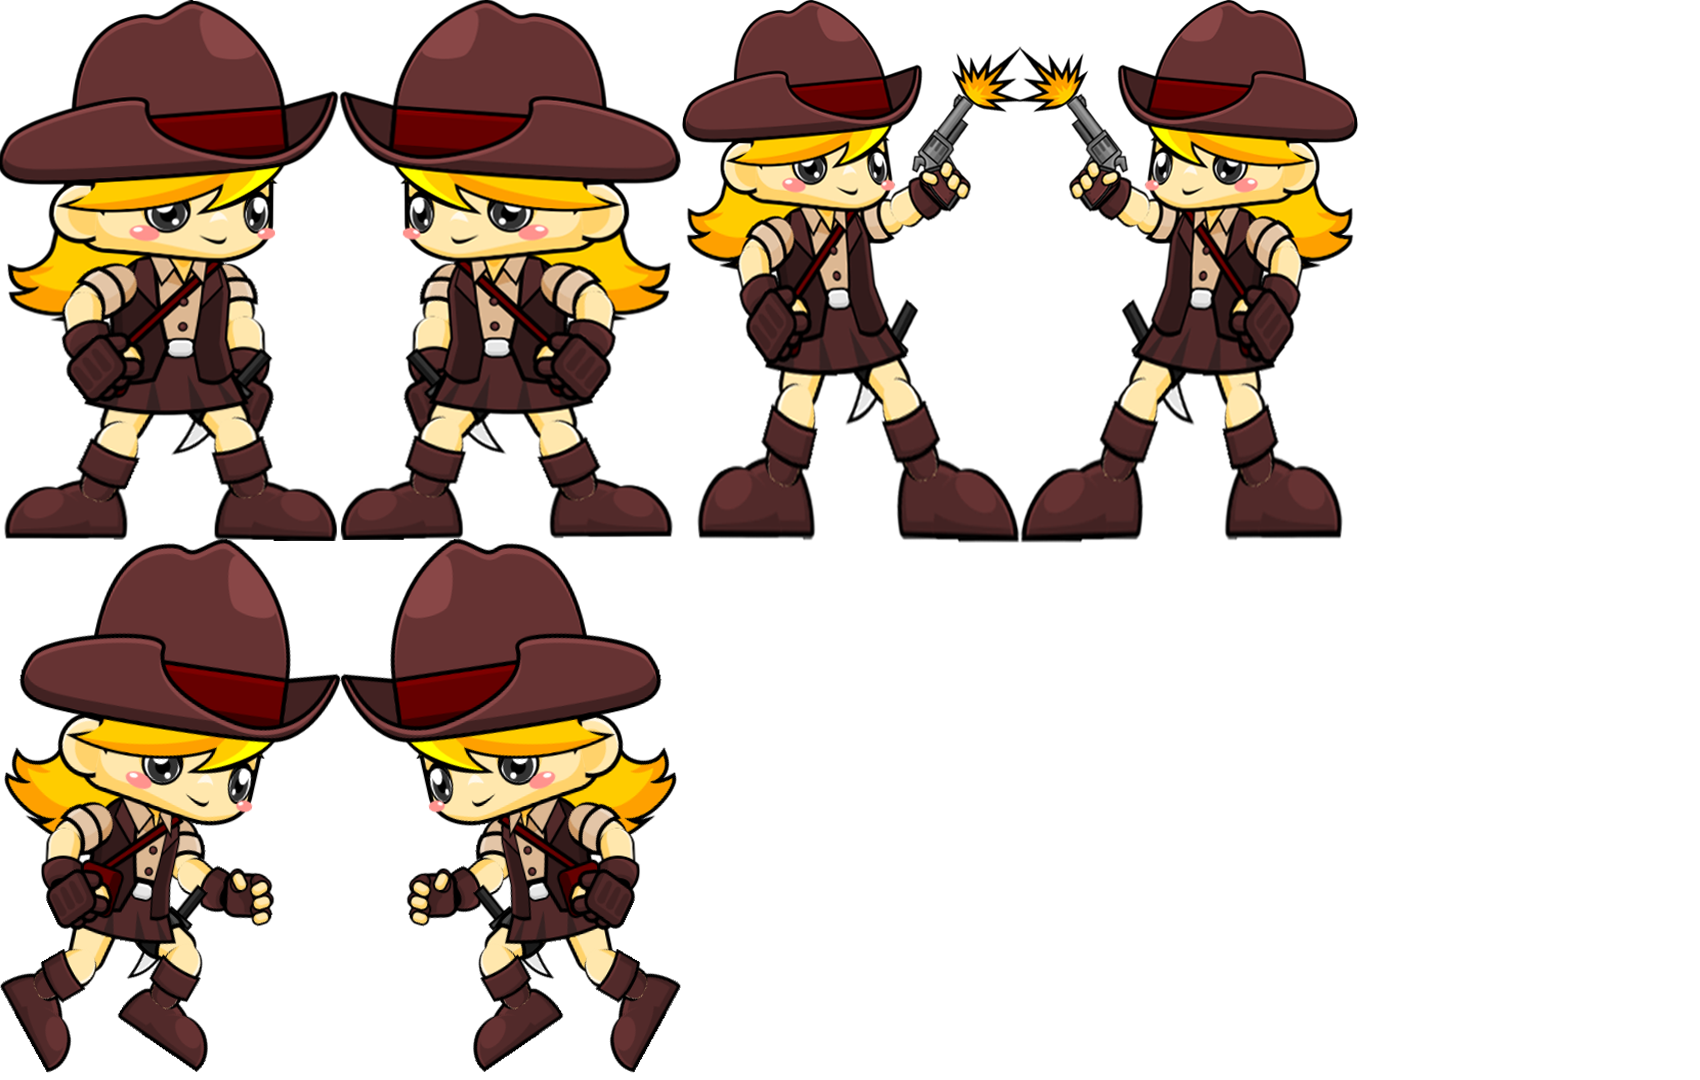
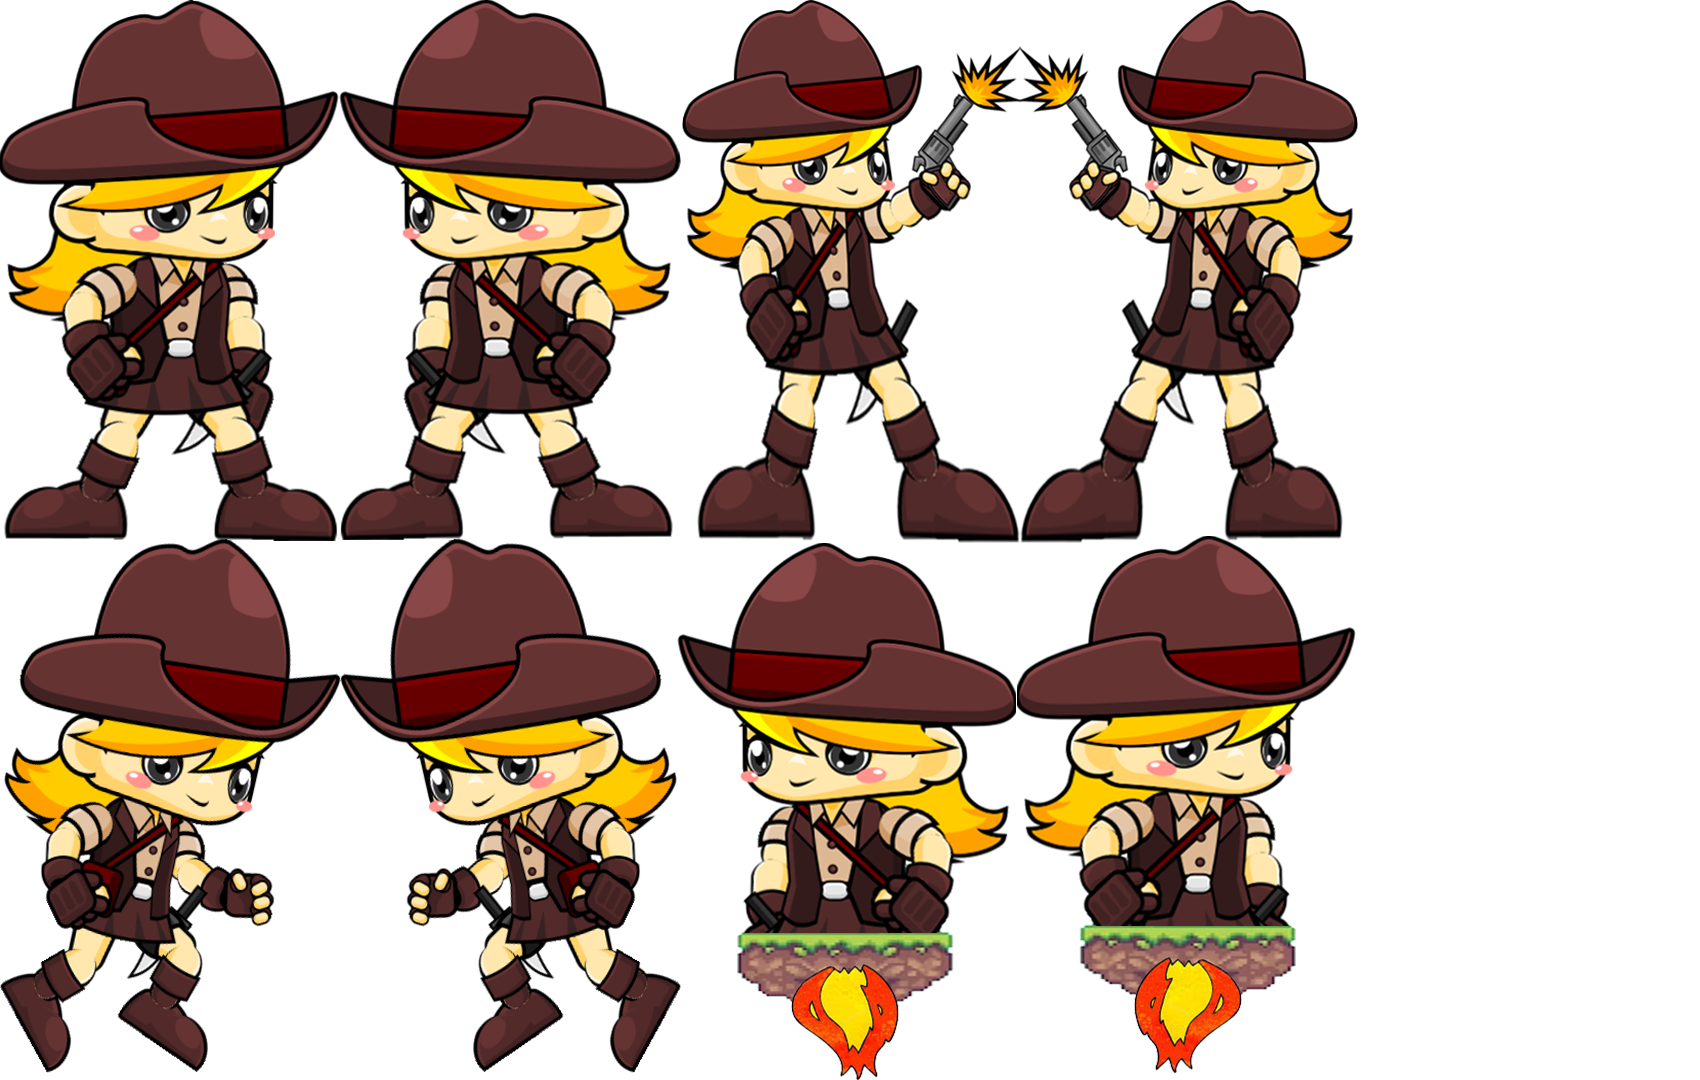
split up game and manu in  classes

Changed region(s): [[0.3741, 0.4889, 0.8106, 1.0]]

diff --git a/src/be/uantwerpen/fti/ei/Platformer/GameMode1.java b/src/be/uantwerpen/fti/ei/Platformer/GameMode1.java
@@ -10,6 +10,7 @@ import be.uantwerpen.fti.ei.Platformer.Platforms.CrackingPlatform;
 import be.uantwerpen.fti.ei.Platformer.Platforms.MovingPlatform;
 import be.uantwerpen.fti.ei.Platformer.Platforms.PlatformEntity;
 import be.uantwerpen.fti.ei.Platformer.Platforms.StaticPlatform;
+import be.uantwerpen.fti.ei.Platformer.Props.Jetter;
 import be.uantwerpen.fti.ei.Platformer.Props.Props;
 import be.uantwerpen.fti.ei.Platformer.Props.Trampoline;
 
@@ -36,8 +37,10 @@ public class GameMode1 {
 
 
 
-    private boolean jump ; //to check if jum is nessessary
+    private boolean jump ; //to check if jump is nessessary
     private int jumped = 0 ; //for jumping animation
+
+    private boolean jetteranimation = false ;
 
     private boolean propHit;    //for higher jump
 
@@ -121,7 +124,7 @@ public class GameMode1 {
         //draws platform in first frame
         DrawPlatforms();
         //draw player
-        player.Draw(false);
+        player.Draw(0);
 
         //draw string for info
         grCtx.getG2d().drawString("Press escape to start", grCtx.getScreenWidth() / 2 - 100, 100);
@@ -204,14 +207,24 @@ public class GameMode1 {
                     DrawBullets();
 
 
-                    //for the jumping animation of the player
-                    if (jumped > 0 ){
-                        player.Draw(true);
-                        jumped -- ;
+                    //for animations
+
+                    if (jetteranimation) {
+                        player.Draw(5);
+                        if (player.getMovementComp().getJumpCounter() < 5) {
+                            jetteranimation = false;
+                            jumped = 0;
+                        }
+                    }
+                    else if (jumped > 0) {
+                        player.Draw(1);
+                        jumped--;
+
                     }
                     else {
-                        player.Draw(false  );
+                        player.Draw(0);
                     }
+
 
                     //draws score
                     grCtx.getG2d().drawString(String.valueOf(player.getScore()), grCtx.getScreenWidth() / 2 - 10, 100);
@@ -400,6 +413,7 @@ public class GameMode1 {
 
             }
         }
+
         //horizontal moving
         else if (color <= 90) {
             platforms.add(new MovingPlatform(xp, yp, grCtx.getPlatformHeight(), grCtx.getPlatformWidth(), grCtx));
@@ -429,10 +443,12 @@ public class GameMode1 {
 
 
         }
-        //rocket or something more rare -> improvement
-        else if (color <= 108 && level > 3) {
 
 
+        //jetter (rocket)
+        else if (color <= 108 && level >3 ) {
+            platforms.add(new StaticPlatform(xp , yp , grCtx.getPlatformHeight() , grCtx.getPlatformWidth() , grCtx));
+            props.add(new Jetter(platforms.getLast().getMovementComp() , grCtx)) ;
             //safe
         } else
             platforms.add(new StaticPlatform(xp, yp, grCtx.getPlatformHeight(), grCtx.getPlatformWidth(), grCtx));
@@ -478,6 +494,13 @@ public class GameMode1 {
             if (prop.CollisionPropPlayer(player) && player.movementComp.getJumpCounter() < 0) {  ///falling onto prop
                 player.movementComp.setJumpCounter(prop.getPower());
                 propHit = true;
+                //if prop is getter -> animation
+                if (prop.getId() == 21){
+                    jetteranimation = true ;
+                }
+
+
+
                 return true;
 
             }

diff --git a/src/Dependencies/GraphicsContext.java b/src/Dependencies/GraphicsContext.java
@@ -18,6 +18,7 @@ public class GraphicsContext {
     private int playerWidth ;
     private int bulletsize ; //keep it rectangular
     private int trampolinesize ; //also rectangle
+    private int jetterSize;         //rect
     private int monster1Height;
     private int monster1Width;
 
@@ -56,6 +57,7 @@ public class GraphicsContext {
     public BufferedImage crackingPlatformSprite;
     public BufferedImage movingPlatformSprite;
     public BufferedImage trampolineSprite;
+    public BufferedImage jetterSprite ;
 
     public BufferedImage monster1Sprite;
 
@@ -176,6 +178,8 @@ public class GraphicsContext {
                 movingPlatformSprite = ImageIO.read(new File("Sources/Theme1/Platforms/MovingPlatform.png"));
 
                 trampolineSprite = ImageIO.read(new File("Sources/Theme1/Props/Trampline.png"));
+                jetterSprite = ImageIO.read(new File("Sources/Theme1/Props/BoostPlat.png"));
+
 
                 monster1Sprite = ImageIO.read(new File("Sources/Theme1/Enemies/Monster1.png"));
 
@@ -235,6 +239,9 @@ public class GraphicsContext {
             playerSprite = resizeImage(playerSprite, playerWidth*5, playerHeight*2);         //rezise the player sprite
             playerJumping = resizeImage(playerJumping, size*20, size*20);         //rezise the player sprite
 
+
+
+
             monster1Sprite = resizeImage(monster1Sprite , monster1Width , monster1Height);
 
             ground = resizeImage(staticPlatformSprite , screenWidth , playerHeight) ;
@@ -243,6 +250,7 @@ public class GraphicsContext {
             crackingPlatformSprite = resizeImage(crackingPlatformSprite , platformWidth , platformHeight);
             movingPlatformSprite = resizeImage(movingPlatformSprite , platformWidth , platformHeight);
 
+            jetterSprite = resizeImage(jetterSprite , jetterSize ,jetterSize) ;
             trampolineSprite = resizeImage(trampolineSprite , trampolinesize, trampolinesize);
             bulletSprite = resizeImage(bulletSprite , bulletsize , bulletsize);
 
@@ -267,6 +275,7 @@ public class GraphicsContext {
         platformHeight = size*10 ;
         platformWidth = size*21 ;
         trampolinesize = size *10 ;
+        jetterSize = size * 10 ;
         bulletsize= size *6 ;
         monster1Height = size*30 ;
         monster1Width = size*20 ;
@@ -340,6 +349,13 @@ public class GraphicsContext {
         this.trampolinesize = trampolinesize;
     }
 
+    public int getJetterSize() {
+        return jetterSize;
+    }
+
+    public void setJetterSize(int jetterSize) {
+        this.jetterSize = jetterSize;
+    }
 
     public int getMonster1Height() {
         return monster1Height;

diff --git a/src/be/uantwerpen/fti/ei/Platformer/Player.java b/src/be/uantwerpen/fti/ei/Platformer/Player.java
@@ -45,7 +45,7 @@ public class Player extends  Entity{
      * @param jumping : True if the player is jumping, for animation puposes
      * //could make the juming an int that decreases like in the Game for further, more advanced animations -> improvement.
      */
-    public  void Draw(boolean jumping){
+    public  void Draw(int animation ){
 
         Graphics2D g2d = gr.getG2d();
         int size = gr.getSize();
@@ -57,17 +57,36 @@ public class Player extends  Entity{
         }
         else {
 
-            if (!jumping) {
+
+            //regular  (left-right)
+             if (animation ==  0) {
                 if (animationDir == -1)
                     g2d.drawImage(gr.playerSprite.getSubimage(gr.getPlayerWidth(), 0, gr.getPlayerWidth(), gr.getPlayerHeight()), movementComp.getPosX(), -movementComp.getPosY(), null); //drawing y-axis (0,0) is top left
                 else
                     g2d.drawImage(gr.playerSprite.getSubimage(0, 0, gr.getPlayerWidth(), gr.getPlayerHeight()), movementComp.getPosX(), -movementComp.getPosY(), null); //drawing y-axis (0,0) is top left
-            } else {
+            }
+            //jumping
+             else if (animation == 1 ) {
                 if (animationDir == -1)
                     g2d.drawImage(gr.playerSprite.getSubimage(gr.getPlayerWidth(), gr.getPlayerHeight(), gr.getPlayerWidth(), gr.getPlayerHeight()), movementComp.getPosX(), -movementComp.getPosY(), null); //drawing y-axis (0,0) is top left
                 else
                     g2d.drawImage(gr.playerSprite.getSubimage(0, gr.getPlayerHeight(), gr.getPlayerWidth(), gr.getPlayerHeight()), movementComp.getPosX(), -movementComp.getPosY(), null); //drawing y-axis (0,0) is top lef
             }
+
+            //Jetter animation
+            else if (animation == 5){
+                 if (animationDir == -1)
+
+                     g2d.drawImage(gr.playerSprite.getSubimage(gr.getPlayerWidth()*2, gr.getPlayerHeight(), gr.getPlayerWidth(), gr.getPlayerHeight()), movementComp.getPosX(), -movementComp.getPosY(), null); //drawing y-axis (0,0) is top left
+                 else
+
+
+                     g2d.drawImage(gr.playerSprite.getSubimage(gr.getPlayerWidth()*3, gr.getPlayerHeight(), gr.getPlayerWidth(), gr.getPlayerHeight()), movementComp.getPosX(), -movementComp.getPosY(), null); //drawing y-axis (0,0) is top left
+
+
+
+             }
+
         }
     }
 

diff --git a/src/be/uantwerpen/fti/ei/Platformer/GameMode2.java b/src/be/uantwerpen/fti/ei/Platformer/GameMode2.java
@@ -134,7 +134,7 @@ public class GameMode2 {
         //draws platform in first frame
         DrawPlatforms();
         //draw player
-        player.Draw(false);
+        player.Draw(0);
 
         //draw string for info
         grCtx.getG2d().drawString("Press escape to start", grCtx.getScreenWidth() / 2 - 100, 100);
@@ -255,10 +255,10 @@ public class GameMode2 {
 
                     //for the jumping animation of the player
                     if (jumped > 0) {
-                        player.Draw(true);
+                        player.Draw(1);
                         jumped--;
                     } else {
-                        player.Draw(false);
+                        player.Draw(0);
                     }
 
                     if(playerLocked)dirArrow.Draw(); //so arrow gets drawn over the rest

diff --git a/src/be/uantwerpen/fti/ei/Platformer/Props/Trampoline.java b/src/be/uantwerpen/fti/ei/Platformer/Props/Trampoline.java
@@ -17,11 +17,13 @@ public class Trampoline extends Props {
     /**
      * Constructor Trampoline
      * Sets basic parameters specific to trampoline.
-     * Also determins where on the pletform it will live.
-     * @param yea   MovementComponent of the pltform it is attached to
+     * Also determins where on the platform it will live.
+     * @param yea   MovementComponent of the pltaform it is attached to
      * @param gr    GraphicsContext used to draw
      */
     public Trampoline(MovementComp yea , GraphicsContext gr) {
+
+        id = 20 ;
 
         power = 150; //how high player will jump
 

diff --git a/src/be/uantwerpen/fti/ei/Platformer/Props/Props.java b/src/be/uantwerpen/fti/ei/Platformer/Props/Props.java
@@ -9,6 +9,8 @@ import be.uantwerpen.fti.ei.Platformer.Movement.MovementComp;
  */
 public class Props extends Entity {
 
+    //id for each kind of prop
+    int id ;
 
     //where on the platform does the prop live
     protected int positionOnPlat;   //0 = left , 1 = mid , 2 = right
@@ -74,8 +76,9 @@ public class Props extends Entity {
     }
 
 
-
-
+    public int getId() {
+        return id;
+    }
 
     public int getPower() {
         return power;
